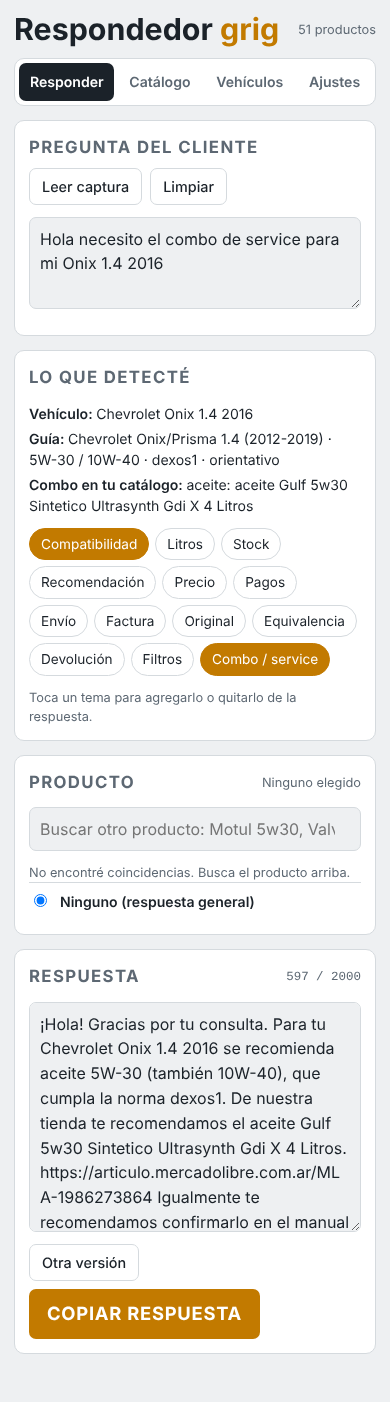
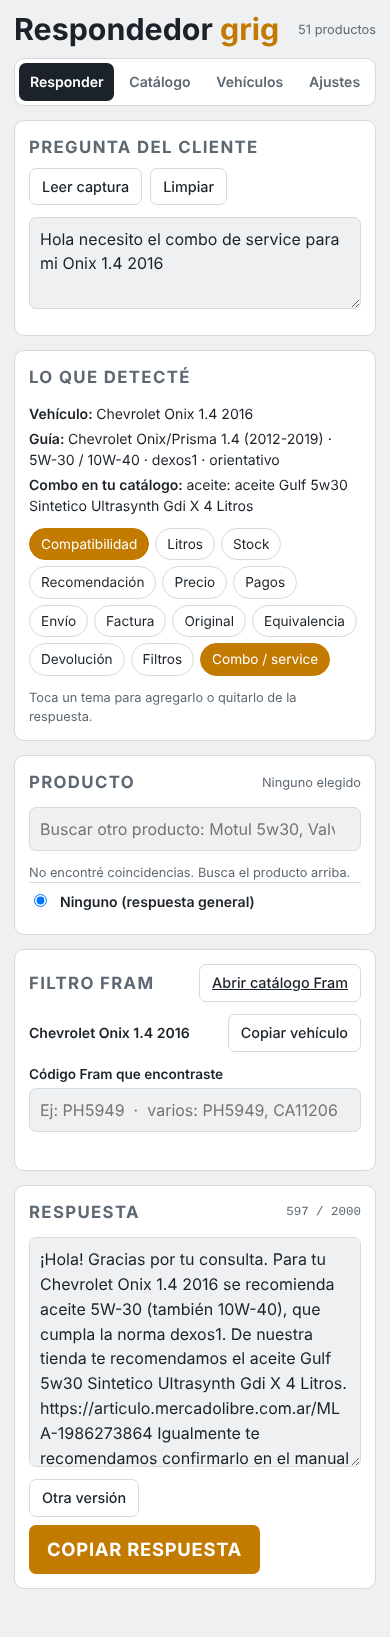
Filtro Fram: buscar el código en las publicaciones y recordarlo por vehículo
Claude-Session: https://claude.ai/code/session_019EL6JgXRSoakvXpns3krCf

diff --git a/index.html b/index.html
@@ -126,6 +126,23 @@ details[open] > .sub { display: grid; gap: 10px; margin-top: 10px; }
       <div class="plist" id="plist"></div>
     </div>
 
+    <div class="panel" id="framPanel" hidden>
+      <div class="row between">
+        <h2>Filtro Fram</h2>
+        <a class="btn" href="https://catalogofram.com.ar/inicio" target="_blank" rel="noopener">Abrir catálogo Fram</a>
+      </div>
+      <div class="row between">
+        <div class="facts" id="framVeh"></div>
+        <button class="btn" id="framCopyVeh" type="button">Copiar vehículo</button>
+      </div>
+      <div class="field">
+        <label for="framCode">Código Fram que encontraste</label>
+        <input type="text" id="framCode" placeholder="Ej: PH5949  ·  varios: PH5949, CA11206" autocapitalize="characters" autocomplete="off" spellcheck="false">
+      </div>
+      <div class="facts" id="framResult"></div>
+      <p class="hint" id="framSaved"></p>
+    </div>
+
     <div class="panel">
       <div class="row between"><h2>Respuesta</h2><span class="count" id="count"></span></div>
       <textarea class="answer" id="answer" aria-label="Respuesta"></textarea>
@@ -568,7 +585,7 @@ const Engine = (() => {
   }
 
   function compose(ctx) {
-    const { intents, prod, veh, guide, options = [], alt, combo = { oil: null, filters: [] }, settings: S, seed = 0, q = "" } = ctx;
+    const { intents, prod, veh, guide, options = [], alt, combo = { oil: null, filters: [] }, fram = [], settings: S, seed = 0, q = "" } = ctx;
     const pick = (key, arr) => arr[(seed + hash(key)) % arr.length];
     const P = prod ? prodName(prod.t) : "";
     const isFilter = prod && /filtro/i.test(prod.t);
@@ -580,7 +597,7 @@ const Engine = (() => {
     const out = [];
     let asked = false;
     const askData = () => { if (asked) return ""; asked = true; return pick("ask", ["Para confirmarte, ¿nos indicás marca, modelo, año y motor de tu vehículo?", "Así te asesoramos bien, ¿nos pasás marca, modelo, año y motor del vehículo?"]); };
-    const wantsFilters = intents.has("filtros") || intents.has("combo") || intents.has("equivalencia") || isFilter;
+    const wantsFilters = intents.has("filtros") || intents.has("combo") || intents.has("equivalencia") || isFilter || fram.length > 0;
     const vehTalk = intents.has("compat") || intents.has("litros") || intents.has("recomendar") || intents.has("combo");
     const ambiguous = !guide && veh && veh.model && options.length > 1;
     const oilTalk = !isFilter || intents.has("litros") || /\baceite\b/.test(norm(q).replace(/filtros? (de |del |para )?aceite/g, ""));
@@ -628,7 +645,7 @@ const Engine = (() => {
     }
 
     if (intents.has("stock") && wantsFilters && !isFilter) {
-      if (combo.filters.length) out.push("¡Sí, tenemos!");
+      if (fram.length ? fram.some((f) => f.it) : combo.filters.length) out.push("¡Sí, tenemos!");
     } else if (intents.has("stock")) {
       out.push(prod ? pick("stock", ["Sí, tenemos stock disponible del " + P + ".", "Sí, el " + P + " está disponible.", "¡Sí, hay stock disponible!"])
         : pick("stock0", ["Sí, tenemos stock disponible de lo publicado.", "Sí, contamos con disponibilidad. Podés comprar directamente desde la publicación."]));
@@ -640,7 +657,15 @@ const Engine = (() => {
       else { const a = askData(); if (a) out.push(a); }
     }
 
-    if (wantsFilters && veh && veh.model) {
+    if (fram.length) {
+      fram.forEach((f, i) => {
+        const head = i === 0 ? "Para " + (veh && veh.model ? "tu " + veh.label : "tu vehículo") + " el filtro" : "El filtro";
+        let t = head + (f.cat ? " de " + f.cat : "") + " que corresponde es el Fram " + f.code + ".";
+        if (f.it) { const l = lk(f.it); t += l ? " Podés agregarlo al carrito desde acá:" + l : " Lo tenemos disponible."; }
+        else t += " En este momento no lo tenemos disponible.";
+        out.push(t);
+      });
+    } else if (wantsFilters && veh && veh.model) {
       const fl = combo.filters;
       if (fl.length) out.push("Para tu " + veh.label + " tenemos " + fl.map((f) => "el filtro de " + f.cat + " " + filterName(f.it.t) + lk(f.it)).join(", ") + ".");
       else if (guide && guide.fa && !isFilter) out.push("Para tu " + veh.label + " el filtro de aceite que corresponde es " + guide.fa + (guide.fai ? " y el de aire es " + guide.fai : "") + ".");
@@ -694,6 +719,23 @@ const Engine = (() => {
     return lines.slice(from, last + 1).join(" ");
   }
 
+  // ---- Códigos Fram: tipo de filtro por prefijo y búsqueda en las publicaciones
+  const collapse = (s) => norm(s).replace(/\b([a-z]{1,4})[\s-]+(?=\d)/g, "$1");
+  function parseCodes(s) {
+    return [...new Set(String(s).toUpperCase().split(/[,;\/\s]+(?=[A-Z])/).map((c) => c.replace(/[\s.-]/g, "")).filter((c) => /^[A-Z]{1,4}\d{2,6}[A-Z]{0,2}$/.test(c)))];
+  }
+  function framCat(code) {
+    if (/^(PHS?|CH|XG|TG|HP)\d/.test(code)) return "aceite";
+    if (/^CA\d/.test(code)) return "aire";
+    if (/^CF\d/.test(code)) return "habitáculo";
+    if (/^(G|GF|PS|P|PSC)\d/.test(code)) return "combustible";
+    return "";
+  }
+  function findByCode(catalog, code) {
+    const re = new RegExp("(^|[^a-z0-9])" + code.toLowerCase() + "([^a-z0-9]|$)");
+    return catalog.find((it) => re.test(collapse(it.t))) || null;
+  }
+
   // Captura de "Preguntas" del panel de vendedores: producto (fila del SKU) y pregunta (entre el nombre del comprador y "Respuestas rápidas")
   const ANCHOR = /respuestas? r[aá]pid|solo pod[eé]s enviar|no incluyas datos|escrib[ií]\s*\S?\s*para acceder/i;
   const PROD_ROW = /\bSKU\b|\d[\d.]*\s*unidades|\$\s?\d/i;
@@ -732,7 +774,7 @@ const Engine = (() => {
     return { question, product };
   }
 
-  return { parseScreenshot, cleanProduct, ANCHOR, PROD_ROW, norm, tokens, INTENTS, detectIntents, extractVehicle, findGuide, matchVehicles, comboFor, VEHICLES, vehName, viscOf, litersOf, scoreItems, keyOf, linkOf, parseListing, compose, similarity, extractQuestion, money, prodName };
+  return { parseCodes, framCat, findByCode, parseScreenshot, cleanProduct, ANCHOR, PROD_ROW, norm, tokens, INTENTS, detectIntents, extractVehicle, findGuide, matchVehicles, comboFor, VEHICLES, vehName, viscOf, litersOf, scoreItems, keyOf, linkOf, parseListing, compose, similarity, extractQuestion, money, prodName };
 })();
 </script>
 
@@ -760,7 +802,9 @@ const Engine = (() => {
   let bank = store.get("bank", []);
   let settings = { ...DEFAULTS, ...store.get("settings", {}) };
 
-  let state = { intents: new Set(), manual: null, prodKey: null, prodManual: false, seed: 0, listing: "", listingKey: null };
+  let state = { intents: new Set(), manual: null, prodKey: null, prodManual: false, seed: 0, listing: "", listingKey: null, framVehKey: null };
+  let framMem = store.get("framMem", {});
+  const vehKey = (v) => v && v.model ? [v.brand, v.model, v.engine || ""].join("|") : null;
 
   function toast(msg) { const t = $("toast"); t.textContent = msg; t.hidden = false; clearTimeout(toast._t); toast._t = setTimeout(() => (t.hidden = true), 1800); }
 
@@ -790,6 +834,14 @@ const Engine = (() => {
 
   function analyze() {
     const q = $("q").value;
+    // Si cambió el vehículo, se limpia el código Fram (o se completa con uno guardado para ese vehículo y año)
+    const v = E.extractVehicle(q);
+    const k = vehKey(v);
+    if ((k || "") + "|" + (v && v.year || "") !== state.framVehKey) {
+      state.framVehKey = (k || "") + "|" + (v && v.year || "");
+      const mem = k && framMem[k];
+      $("framCode").value = mem && v.year && mem.byYear[v.year] ? mem.byYear[v.year] : "";
+    }
     state.intents = E.detectIntents(q);
     state.manual = null;
     state.seed = 0;
@@ -835,7 +887,37 @@ const Engine = (() => {
 
     renderProducts(q, prod);
     if (!q.trim()) { $("answer").value = ""; updateCount(); $("bankPanel").hidden = true; return; }
-    $("answer").value = E.compose({ intents, prod, veh, guide: g, options: m.options, alt, combo, settings: { ...settings, link: settings.link === "1" }, seed: state.seed, q });
+    // Filtro Fram
+    const codes = E.parseCodes($("framCode").value);
+    const fram = codes.map((code) => ({ code, cat: E.framCat(code), it: E.findByCode(catalog, code) }));
+    $("framPanel").hidden = !(q.trim() && (codes.length || intents.has("filtros") || intents.has("combo") || intents.has("equivalencia") || (prod && /filtro/i.test(prod.t))));
+    const fv = $("framVeh"); fv.textContent = "";
+    if (veh && veh.model) {
+      const b = document.createElement("b"); b.textContent = veh.label; fv.append(b);
+      const miss = [!veh.year && "año", !veh.engine && "motor"].filter(Boolean);
+      if (miss.length) { const w = document.createElement("div"); w.className = "warn"; w.textContent = "Falta " + miss.join(" y ") + ": la respuesta se lo pide al cliente."; fv.append(w); }
+    } else fv.textContent = "El cliente no dijo el vehículo.";
+    const fr = $("framResult"); fr.textContent = "";
+    fram.forEach((f) => {
+      const d = document.createElement("div");
+      const b = document.createElement("b"); b.textContent = f.code + (f.cat ? " (" + f.cat + ")" : "") + ": ";
+      d.append(b);
+      if (f.it) {
+        d.append(f.it.t + " ");
+        if (f.it.id) { const a = document.createElement("a"); a.href = E.linkOf(f.it); a.target = "_blank"; a.rel = "noopener"; a.textContent = "ver publicación"; d.append(a); }
+      } else { d.className = "warn"; d.append("no está en tu catálogo cargado. Si lo tienes publicado, carga esa página en Catálogo."); }
+      fr.append(d);
+    });
+    const mem = veh && framMem[vehKey(veh)];
+    $("framSaved").textContent = mem ? "Guardado antes para este vehículo: " + Object.entries(mem.byYear).map(([y, c]) => (y === "?" ? "sin año" : y) + " → " + c).join(" · ") : "";
+
+    // Si la pregunta nombra un tipo de filtro, la respuesta usa solo los códigos de ese tipo
+    const nq = E.norm(q);
+    const wanted = [/filtros? (de |del )?aceite/.test(nq) && "aceite", /filtros? (de |del )?aire(?! acond)/.test(nq) && "aire",
+      /(combustible|nafta|gasoil)/.test(nq) && /filtro/.test(nq) && "combustible", /(habitaculo|polen|cabina|aire acondicionado)/.test(nq) && "habitáculo"].filter(Boolean);
+    const framAns = wanted.length ? fram.filter((f) => !f.cat || wanted.includes(f.cat)) : fram;
+
+    $("answer").value = E.compose({ intents, prod, veh, guide: g, options: m.options, alt, combo, fram: framAns, settings: { ...settings, link: settings.link === "1" }, seed: state.seed, q });
     updateCount();
     renderBank(q);
   }
@@ -889,7 +971,13 @@ const Engine = (() => {
   $("q").addEventListener("input", () => { clearTimeout(debounce); debounce = setTimeout(analyze, 180); });
   $("prodSearch").addEventListener("input", () => update());
   $("answer").addEventListener("input", updateCount);
-  $("clearQ").addEventListener("click", () => { $("q").value = ""; state.listing = ""; state.listingKey = null; $("prodSearch").value = ""; state.prodManual = false; state.prodKey = null; $("ocrStatus").textContent = ""; analyze(); $("q").focus(); });
+  $("framCode").addEventListener("input", () => update());
+  $("framCopyVeh").addEventListener("click", async () => {
+    const v = E.extractVehicle($("q").value);
+    if (!v) { toast("No hay vehículo para copiar."); return; }
+    try { await navigator.clipboard.writeText(v.label); toast("Copiado: " + v.label); } catch { toast(v.label); }
+  });
+  $("clearQ").addEventListener("click", () => { $("q").value = ""; $("framCode").value = ""; state.framVehKey = null; state.listing = ""; state.listingKey = null; $("prodSearch").value = ""; state.prodManual = false; state.prodKey = null; $("ocrStatus").textContent = ""; analyze(); $("q").focus(); });
   $("another").addEventListener("click", () => { state.seed++; update(); });
 
   async function copyText(text) {
@@ -904,6 +992,13 @@ const Engine = (() => {
     if (!a) { toast("No hay respuesta para copiar."); return; }
     const ok = await copyText(a);
     toast(ok ? "Copiada. Pégala en Mercado Libre." : "Seleccionada: toca Copiar en el menú.");
+    const v = E.extractVehicle(q), codes = E.parseCodes($("framCode").value);
+    if (v && v.model && codes.length) {
+      const k = vehKey(v);
+      framMem[k] = framMem[k] || { label: v.label, byYear: {} };
+      framMem[k].byYear[v.year || "?"] = codes.join(", ");
+      store.set("framMem", framMem);
+    }
     if (q) {
       bank = [{ q: q.slice(0, 600), a, t: Date.now() }, ...bank.filter((b) => !(b.q === q.slice(0, 600) && b.a === a))].slice(0, 400);
       store.set("bank", bank);
@@ -1048,7 +1143,7 @@ const Engine = (() => {
     catalog = []; saveCatalog(); renderCatList(); $("bkStatus").textContent = "Catálogo borrado.";
   });
   $("exportBtn").addEventListener("click", () => {
-    const data = JSON.stringify({ app: "respondedor-grig", v: 1, fecha: new Date().toISOString(), catalog, vehicles: guide, bank, settings }, null, 1);
+    const data = JSON.stringify({ app: "respondedor-grig", v: 1, fecha: new Date().toISOString(), catalog, vehicles: guide, bank, settings, framMem }, null, 1);
     const a = document.createElement("a");
     a.href = URL.createObjectURL(new Blob([data], { type: "application/json" }));
     a.download = "respaldo-respondedor-" + new Date().toISOString().slice(0, 10) + ".json";
@@ -1066,6 +1161,7 @@ const Engine = (() => {
       if (Array.isArray(d.vehicles)) guide = d.vehicles;
       if (Array.isArray(d.bank)) bank = d.bank;
       if (d.settings) settings = { ...DEFAULTS, ...d.settings };
+      if (d.framMem) { framMem = d.framMem; store.set("framMem", framMem); }
       saveCatalog(); store.set("vehicles", guide); store.set("bank", bank); store.set("settings", settings);
       loadSettingsForm(); renderVehicles(); renderCatList(); analyze();
       $("bkStatus").textContent = "Respaldo cargado: " + catalog.length + " productos, " + guide.length + " vehículos, " + bank.length + " respuestas.";

diff --git a/README.md b/README.md
@@ -11,6 +11,13 @@ App para responder rápido las preguntas de Mercado Libre de la tienda **grig** 
 - Busca en tu catálogo el aceite y los filtros indicados y arma la respuesta con el link de la publicación, sin precios.
 - Guarda las respuestas que copias y te sugiere las parecidas.
 
+## Filtros Fram
+
+1. La app detecta marca, modelo, motor y año. Si falta un dato, la respuesta se lo pide al cliente.
+2. Toca **Copiar vehículo** y **Abrir catálogo Fram**, y busca el filtro.
+3. Escribe el código (por ejemplo `PH5949`, o varios: `PH5949, CA11206`). La app lo busca en tus publicaciones y pone el link si lo tienes.
+4. Al copiar la respuesta, el código queda guardado para ese vehículo y año.
+
 ## Usarla en el iPhone
 
 Abre el link en Safari → botón Compartir → **Agregar a pantalla de inicio**.
